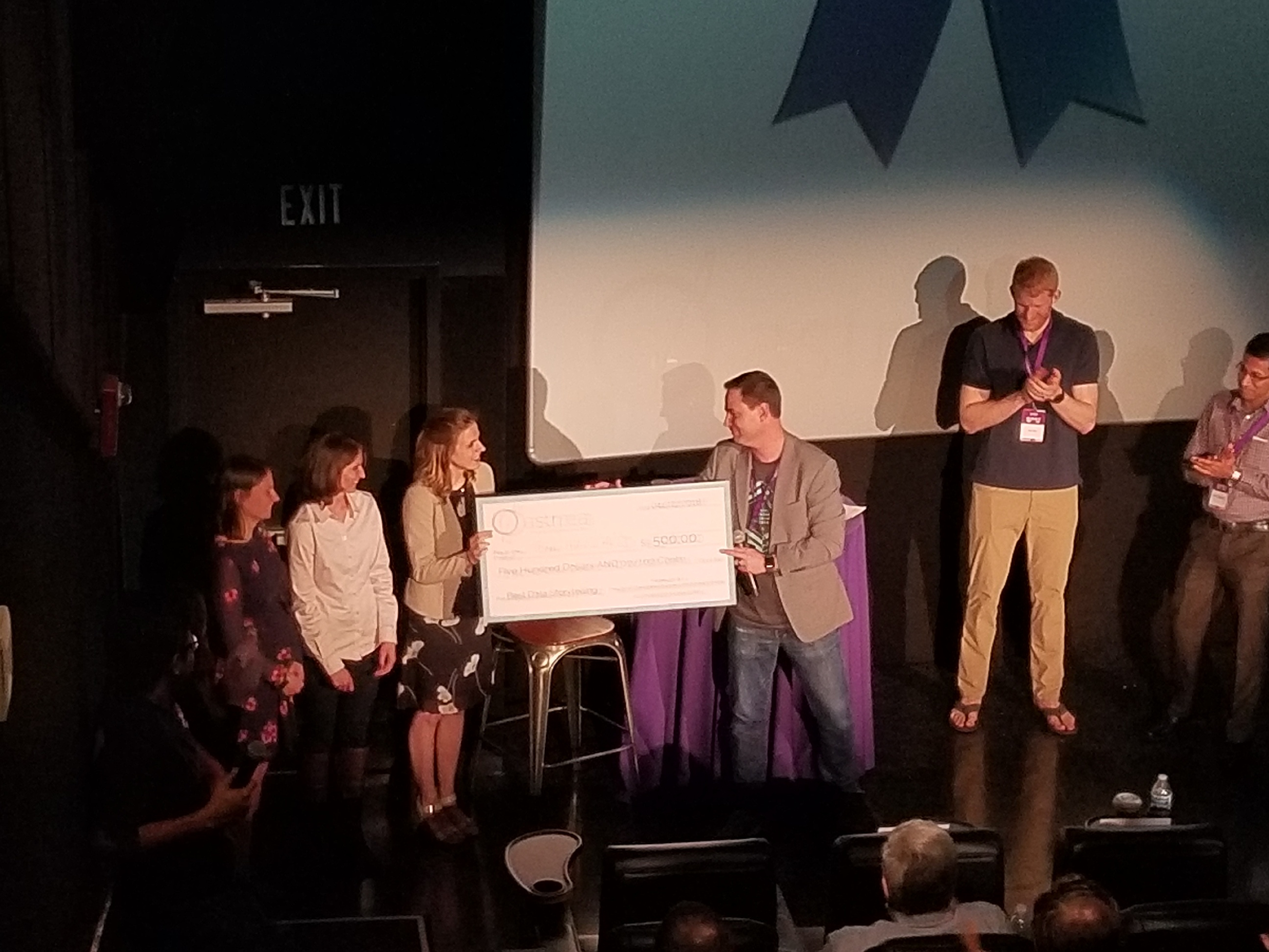
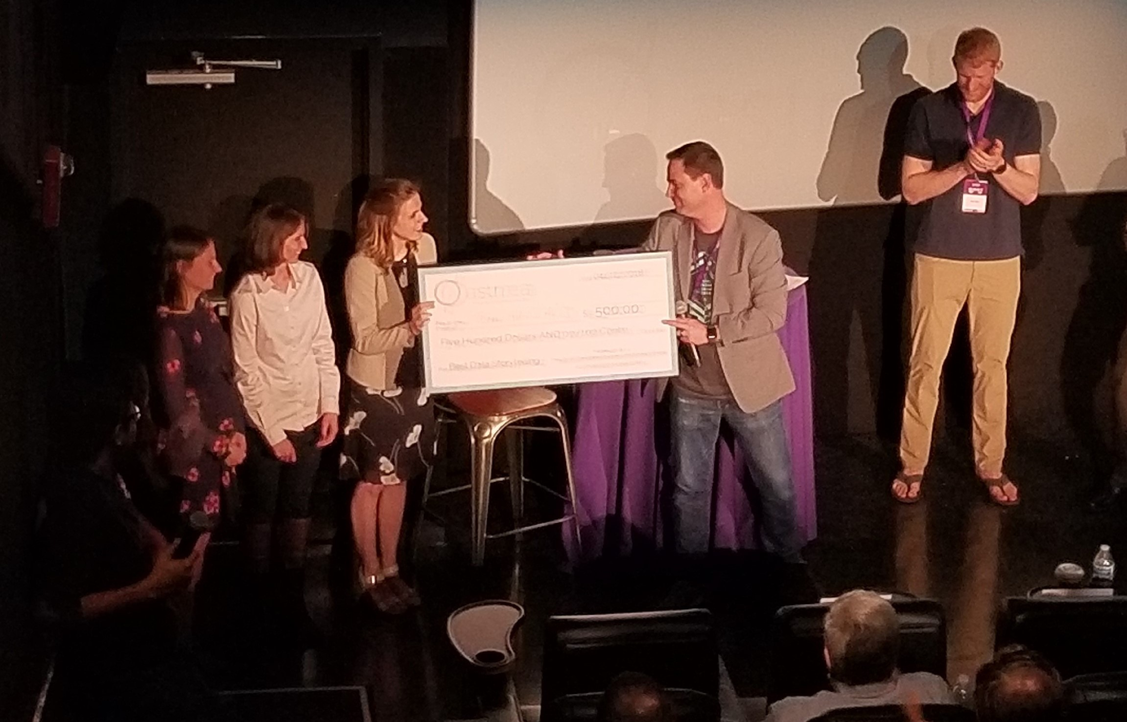
Updated aspect ratio of images in Projects section.

diff --git a/index.html b/index.html
@@ -280,8 +280,8 @@
                           <div onclick="populateModalContent('Charlottesville Open Data<br /> Challenge', 
                           '<p><b>Completed:</b> April 2018<br> </p><p>Developed multiple timeseries models (ARIMA, Regression) in Python with a team of four Data Scientists. Deployed the models using Docker to forecast Wi-Fi usage in daily and hourly increments.</p><p>Created a website using HTML/CSS, Vue, and JavaScript. <b>Won 1st place Best Data Storytelling submission</b> and 4th place Best Predictive Model submission.</p><p>Click <a href=&quot;https://haleemason.github.io/hackd-web/#&quot;><b>here</b></a> to view our Data Storytelling submission.</p>', 
                           '<p>The Best Data Storytelling submission was evaluated for the following criteria: <li><b>Soundness</b> – How robust and rigorous is the analysis behind the storytelling?</li><li><b>Explainable</b> – How well does the story explain what is going on in the data?</li><li><b>Appeal</b> – How stunning are the visuals?</li><li><b>Accessibility</b> – How accessible are the findings to a diverse audience?</li><li><b>Engagement</b> – How engaging is the combined narrative and visuals?</p><p>The goal of the challenge was to use open data and crowdsourcing to engage the growing data science community within Charlottesville and the surrounding area to help the city better understand pedestrian use of the Downtown Mall. The Mall is one of the most successful pedestrian malls in the nation and is a vibrant collection of more than 120 shops and 30 restaurants and the city wants to ensure that capital infrastructure plans are prioritized effectively.</p><p>The challenge required registered teams of data scientists to analyze a year of anonymized time series data on free WiFi usage, create a predictive model forecasting pedestrian usage, and to identify influential factors on pedestrian usage through visualization.</p>', 
-                          'img/portfolio/01b.jpg')" class="col-md-4 col-sm-6  competitions">
-                              <a id="demo01" href="#animatedModal" class="portfolio_item"> <img src="img/portfolio/01c.jpg" alt="image" class="img-responsive" />
+                          'img/portfolio/01a.jpg')" class="col-md-4 col-sm-6  competitions">
+                              <a id="demo01" href="#animatedModal" class="portfolio_item"> <img src="img/portfolio/01.jpg" alt="image" class="img-responsive" />
                                 <div class="portfolio_item_hover">
                                     <div class="portfolio-border clearfix">
                                       <div class="item_info"> 
@@ -295,14 +295,14 @@
                             <!-- end single work -->
                             <!-- single work -->
                             <div onclick="populateModalContent('League of Legends<br /> Statistical Analysis', 
-                            'Personal project to query the Riot Games Developer API to collect, clean, and prepare League of Legends data for statistical analysis.<p>(July 2018 – Present) </p> ', 
+                            '<p><b>In Progress:</b> July 2018 – Present<br> </p>Personal project to query the Riot Games Developer API to collect, clean, and prepare League of Legends data for statistical analysis. ', 
                             'Developed a Random Forest model in Python that ingests compiled ranked ladder data and ranks North American (NA) League Championship Series (LCS) Professional Players. Displays statistics of each week’s professional NA LCS gameplay to show how teams and individual players rank up against each other.', 
                             'img/portfolio/02.jpg')" class="col-md-4 col-sm-6 projects">
                               <a id="demo02" href="#animatedModal" class="portfolio_item"> <img src="img/portfolio/02.jpg" alt="image" class="img-responsive"/>
                                 <div class="portfolio_item_hover">
                                     <div class="portfolio-border clearfix">
                                         <div class="item_info"> 
-                                          <span>League of Legends eSports Predictive Model</span>
+                                          <span>League of Legends eSports Player Analysis</span>
                                           <em>Project</em> <br />
                                         </div>
                                     </div>
@@ -311,8 +311,8 @@
                             </div>
                             <!-- end single work -->
                             <!-- single work -->
-                            <div onclick="populateModalContent('Predicting Readmission<br /> Capstone Project', 
-                            '<p>Built a predictive model using Python and TensorFlow optimized to forecast the risk of rehospitalization in the year following stroke. Collaborated with client and focused on model explainability by using techniques such as LIME.</p> <p>(August 2017)</p> ',
+                            <div onclick="populateModalContent('Predicting Stroke Readmission<br /> Capstone Project', 
+                            '<p><b>Completed:</b> August 2017<br> <p>Built a predictive model using Python and TensorFlow that was optimized to forecast the risk of rehospitalization in the year following stroke. Collaborated with client and focused on model explainability by using techniques such as LIME.</p>',
                             'Implemented the model to drive patient outcomes to help the client segment high risk patients and engage with them more closely to prevent readmission. Deployed model through a Heroku web service which allowed for the client to input patient specific parameters and for the model to output a personalized risk score of rehospitalization.</p>', 
                             'img/portfolio/03.jpg')" class="col-md-4 col-sm-6 capstone">
                               <a id="demo03" href="#animatedModal" class="portfolio_item"> <img src="img/portfolio/03.jpg" alt="image" class="img-responsive" />
